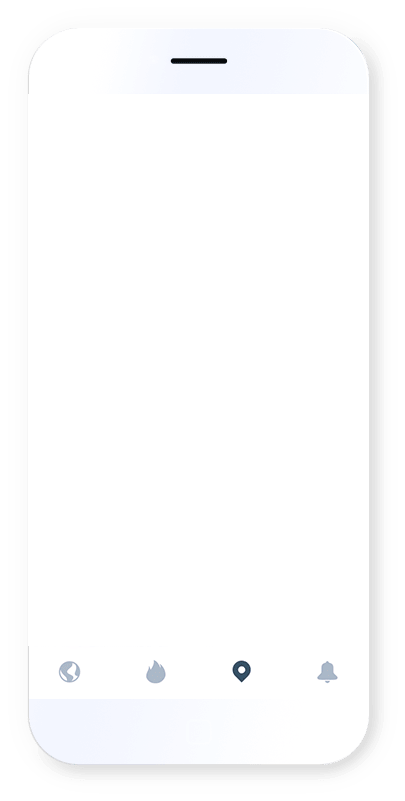
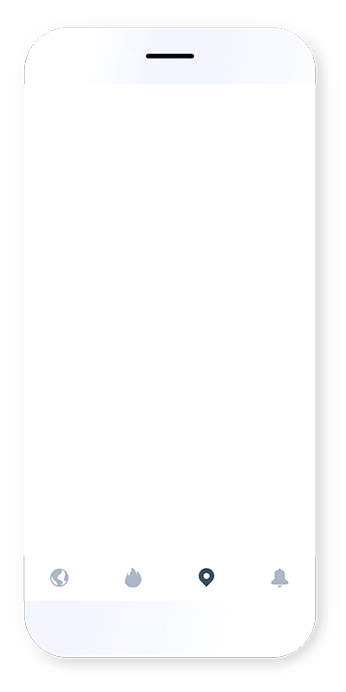
Doing video display

diff --git a/pages/notre-approche/methode.js b/pages/notre-approche/methode.js
@@ -6,6 +6,7 @@ import Screen5 from '../../static/img/screen5.png'
 import Screen6 from '../../static/img/screen6.png'
 import Partners from '../../components/page/public/partners'
 import ContactUs from '../../components/page/public/contactUs'
+import { IphoneComp } from '../../components/dataDisplay/others/device';
 
 const styles = {
 	cardContainer: {
@@ -38,21 +39,63 @@ const Index = () => {
 		<div>
 			<div className='card-bg lines-blue no-repeat right responsive-container'>
 				<div>
+					<Grid container item style={styles.cardContainer} className='responsive-no-padding'>
+						<Grid item container xs={12} sm={8} justify="center" alignItems="center">
+							<Grid container item xs={12} sm={12}>
+								<Grid container item xs={12} sm={12}>
+									<h1 className='red-color'>La méthode de Bolt Influence</h1>
+									<p className='justify'>La création de contenu et le story telling est au centre de ce que nous produisons. Nos experts dans le domaine supportent les marques afin de créer des campagnes impactantes sur tous les réseaux sociaux.</p>
+								</Grid>
+								<Grid item xs={12} sm={6}>
+									<div className='card-spacing'>
+										<h2 className='responsive-align-left'><span className='bordered-head'>Stratégie de contenu :</span></h2>
+										<p>La création de contenu et le storytelling est au centre de ce que nous produisons. Nos experts dans le domaine supportent les marques afin de créer des campagnes impactantes sur tous les réseaux sociaux.</p>
+									</div>
+								</Grid>
+								<Grid item xs={12} sm={6}>
+									<div className='card-spacing'>
+										<h2 className='responsive-align-left'><span className='bordered-head'>Identification des influenceurs :</span></h2>
+										<p>Notre plateforme donne accès à des centaines de milliers d’influenceurs sur Instagram, Youtube, TikTok, Twitch, Twitter, Pinterest, Blog dans tous les domaines.</p>
+									</div>
+								</Grid>
+								<Grid item xs={12} sm={6}>
+									<div className='card-spacing'>
+										<h2 className='responsive-align-left'><span className='bordered-head'>Accompagnement des influenceurs et campaign management :</span></h2>
+										<p>Une fois les influenceurs validés, nous mettons notre expertise au profit des annonceurs en agrégeant ces influenceurs au sein de différents packs thématiques : santé, beauté/lifestyle, sport, e-sport, décoration, voyages, entertainment, food, grande conso.</p>
+									</div>
+								</Grid>
+								<Grid item xs={12} sm={6}>
+									<div className='card-spacing'>
+										<h2 className='responsive-align-left'><span className='bordered-head'>Reporting et campaign management :</span></h2>
+										<p>Toutes les campagnes lancées ont un objectif spécifique : nous mesurons tous les KPI's de manière transparente. Nous travaillons étroitement avec nos clients et pouvons leur fournir les résultats détaillés des retombées de leur campagne dès que celle-ci est terminée.</p>
+									</div>
+								</Grid>
+							</Grid>
+						</Grid>
+						<Grid item xs={12} sm={4} className='text-center'>
+							<IphoneComp deviceColor='white-trending' src="../../static/video/content_stractegy.mp4" />
+						</Grid>
+					</Grid>
+				</div>
+			</div>
+			{/* 			
+			<div className='card-bg lines-blue no-repeat right responsive-container'>
+				<div>
 					<h1 className='text-center red-color'>Notre méthode</h1>
 					<Grid container item style={styles.cardContainer} className='responsive-no-padding'>
-						<Grid item container xs={12} sm={6} justify="center" alignItems="center">
+						<Grid item container xs={12} sm={7} justify="center" alignItems="center">
 							<Grid item xs={12} sm={8}>
 								<h2 className='justify responsive-align-left'><span className='bordered-head'>Stratégie de contenu :</span></h2>
 								<p className='justify'>La création de contenu et le story telling est au centre de ce que nous produisons. Nos experts dans le domaine supportent les marques afin de créer des campagnes impactantes sur tous les réseaux sociaux.</p>
 							</Grid>
 						</Grid>
-						<Grid item xs={12} sm={6} className='text-center'>
+						<Grid item xs={12} sm={5} className='text-center'>
 							<img src={Screen5} className='responsive-fullwidth' />
 						</Grid>
 					</Grid>
 				</div>
 			</div>
-			{/*  */}
+			
 			<div>
 				<Grid container item style={styles.cardContainer} className='dots-blue-down no-repeat responsive-reverse-order responsive-container'>
 					<Grid item xs={12} sm={6} className='text-center'>
@@ -66,7 +109,7 @@ const Index = () => {
 					</Grid>
 				</Grid>
 			</div>
-			{/*  */}
+			
 			<div className='home-block-padding' style={styles.padding} className='card-bg dot-pink reverse no-repeat responsive-container'>
 				<Grid container item style={styles.cardContainer} className='responsive-no-padding'>
 					<Grid item container xs={12} sm={6} justify="center" alignItems="center">
@@ -80,7 +123,7 @@ const Index = () => {
 					</Grid>
 				</Grid>
 			</div>
-			{/*  */}
+			
 			<div className='light-gray-bg'>
 				<Grid container item style={styles.cardContainer} className='card-bg lines-blue reverse-all right no-repeat responsive-reverse-order responsive-container'>
 					<Grid item xs={12} sm={6} className='text-center'>
@@ -93,8 +136,8 @@ const Index = () => {
 						</Grid>
 					</Grid>
 				</Grid>
-			</div>
-			{/*  */}
+			</div> */}
+
 			<div style={styles.contactUsContainer} className='responsive-no-padding'>
 				<Grid container >
 					<Grid item xs={12} sm={2} className='text-center'></Grid>
@@ -112,6 +155,10 @@ const Index = () => {
 				h1 {
 					margin: 0;
 					padding: 2rem;
+					padding-left: 0;
+				}
+				.card-spacing {
+					padding: 0 1rem;
 				}
 			`}</style>
 		</div>

diff --git a/components/dataDisplay/others/device.js b/components/dataDisplay/others/device.js
@@ -1,5 +1,6 @@
 import BlackIphone from '../../../static/img/black-iphone.png'
 import WhiteIphone from '../../../static/img/white-iphone.png'
+import WhiteTrendingIphone from '../../../static/img/white-trending-iphone.png'
 import WhiteTablet from '../../../static/img/white-tablet.png'
 import Video from '../../../components/elements/video'
 
@@ -7,7 +8,7 @@ import Video from '../../../components/elements/video'
 const DeviseComp = (props) => {
     const { src, title, autoplay } = props
     return (
-        <div className='iphone_container'>
+        <div className={`iphone_container ${props.extendClass}`}>
             <div>
                 {src.includes('.mp4') ?
                     <Video autoplay={autoplay} src={src} title={title} />
@@ -20,11 +21,24 @@ const DeviseComp = (props) => {
     )
 }
 
-const IphoneComp = (props) => (
-    <DeviseComp {...props}>
-        <img src={props.deviceColor == 'white' ? WhiteIphone : BlackIphone} />
-    </DeviseComp>
-)
+const IphoneComp = (props) => {
+    let src, extendClass;
+
+    if (props.deviceColor == 'white')
+        src = WhiteIphone;
+    else if (props.deviceColor == 'white-trending')
+        src = WhiteTrendingIphone;
+    else
+        src = BlackIphone;
+
+    extendClass = props.deviceColor.includes('white') ? 'white-iphone' : '';
+
+    return (
+        <DeviseComp {...props} extendClass={extendClass}>
+            <img src={src} />
+        </DeviseComp>
+    )
+}
 
 const TabletComp = (props) => (
     <DeviseComp {...props}>

diff --git a/static/css/index.css b/static/css/index.css
@@ -36,7 +36,7 @@ body a {
     min-height: 90px;
 }
 #header .social-container-parent {
-    padding: 1rem;
+    padding: .2rem 1rem;
     background-color: white;
 }
 #menu-container {
@@ -66,7 +66,7 @@ body a {
     background-size: cover;
     background-repeat: no-repeat;
     background-position: center;
-    height: calc(100vh - 130px);
+    height: calc(100vh - 109px);
 }
 /* #home-cover img {
     opacity: 0;
@@ -1358,6 +1358,9 @@ button.submit {
 }
 .card-bg.circle-pink::before {
     background-image: url('../img/circle-pink.png');
+}
+.card-bg.circle-blue::before {
+    background-image: url('../img/circle-blue.png');
 }
 .card-bg.top-dots-white::before {
     background-image: url('../img/top-dots-white.png');

diff --git a/pages/index.js b/pages/index.js
@@ -118,7 +118,7 @@ const Index = () => {
 			</div>
 			{/*  */}
 			<div className='text-center'>
-				<Grid container item style={styles.cardContainer} className='light-gray-bg responsive-container' >
+				<Grid container item style={styles.cardContainer} className='card-bg circle-blue reverse bottom light-gray-bg responsive-container' >
 					<Grid item container xs={12} sm={6} justify="center" alignItems="center" >
 						<Grid item xs={12} sm={8} className='text-center'>
 							<h2><span className='black-bordered-head'>Data</span> et Technologie</h2>

diff --git a/pages/contact/index.js b/pages/contact/index.js
@@ -206,7 +206,7 @@ const Index = ({ faqs: { faqs } = {} } = {}) => {
 								</ExpansionPanelDetails>
 							</ExpansionPanel>
 						))}
-						<p className='text-right'><a className='red-color'>Montrer tout la FAQ</a></p>
+						<p className='text-right'><a className='red-color'>Montrer toute la FAQ</a></p>
 					</div>
 					<div>
 						<Link href='/contact'><a title='Contactez-nous' style={styles.contactUs}>Vous n’avez pas trouvé votre réponse ? Contactez-nous</a></Link>
